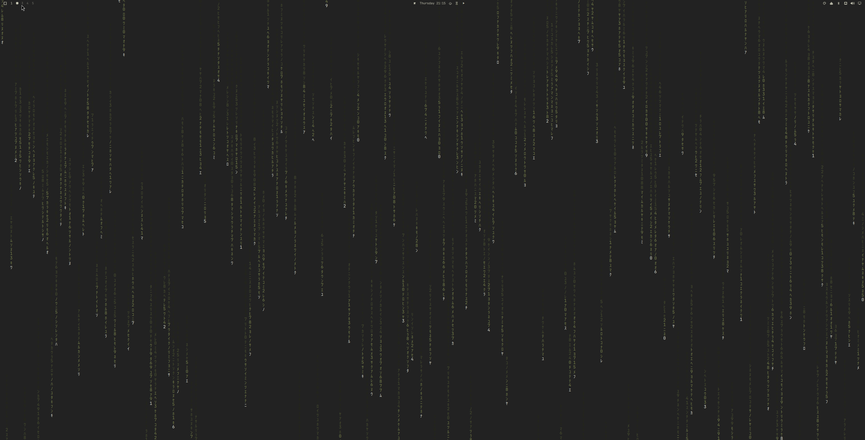
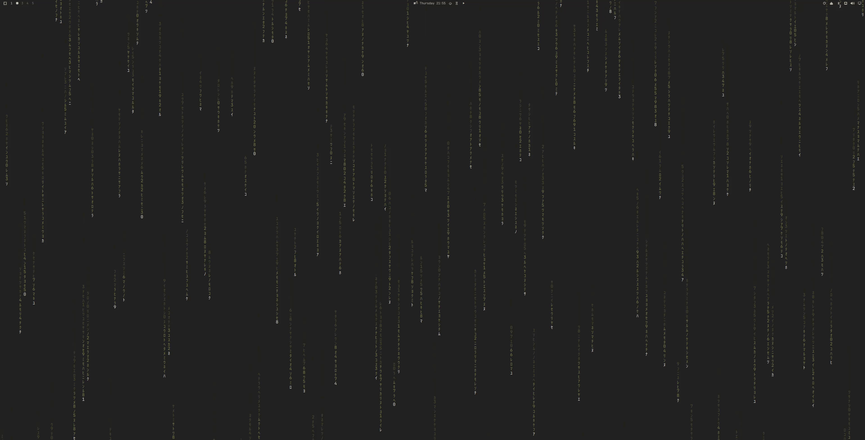
Add an animated preview of the rain
A 4K desktop shrunk to README width leaves the katakana as unreadable
streaks, so the hero is a 1.5x downscale of a crop instead: the glyphs
and the head/body/tail gradient are legible, which is the part worth
showing. The full-desktop still follows it for context.

Animated WebP rather than GIF: the same 10s at 960x540 is 1.5MB here
against 15MB as a GIF, because rain moves everywhere and defeats GIF's
inter-frame compression.

diff --git a/README.md b/README.md
@@ -5,7 +5,11 @@ A live, theme-coloured matrix rain wallpaper for [Omarchy](https://omarchy.org/)
 itself the moment you switch themes. The same plugin also plays looping video
 and animated GIF/WebP wallpapers.
 
-![Matrix rain running as the desktop wallpaper](docs/screenshot.png)
+![Theme-coloured katakana falling as a live wallpaper](docs/demo.webp)
+
+Whole desktop, same thing running behind the bar:
+
+![Matrix rain as the desktop wallpaper](docs/screenshot.png)
 
 It does **not** replace `omarchy.background`. The stock plugin keeps drawing
 your still wallpapers and keeps every upstream fix; this one claims the *bottom*
